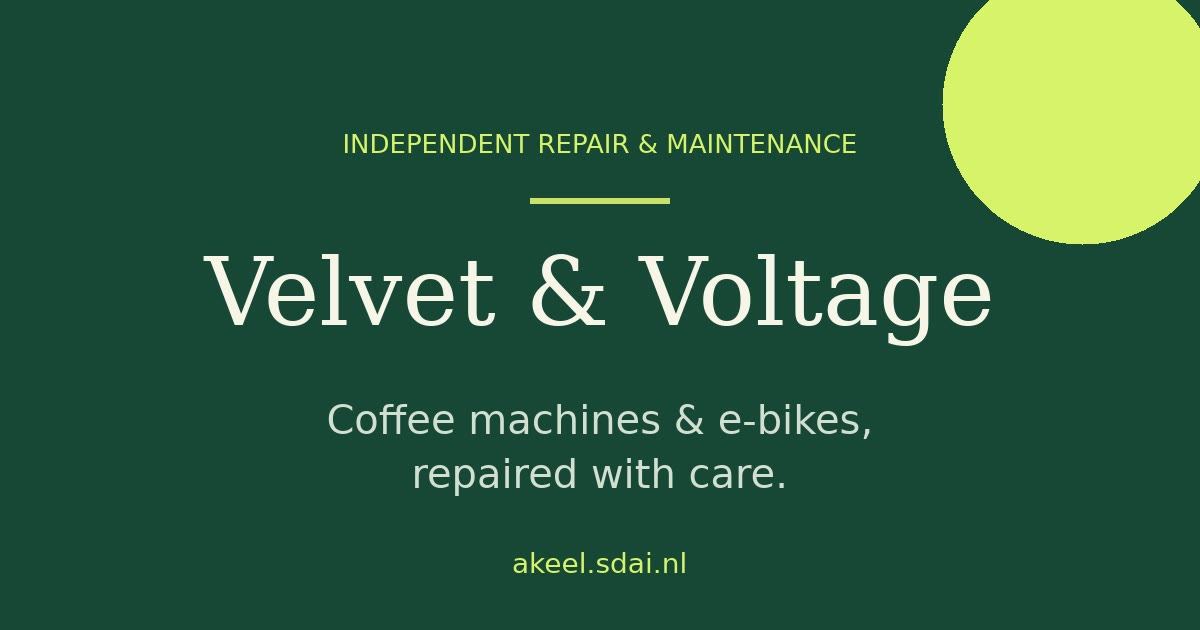
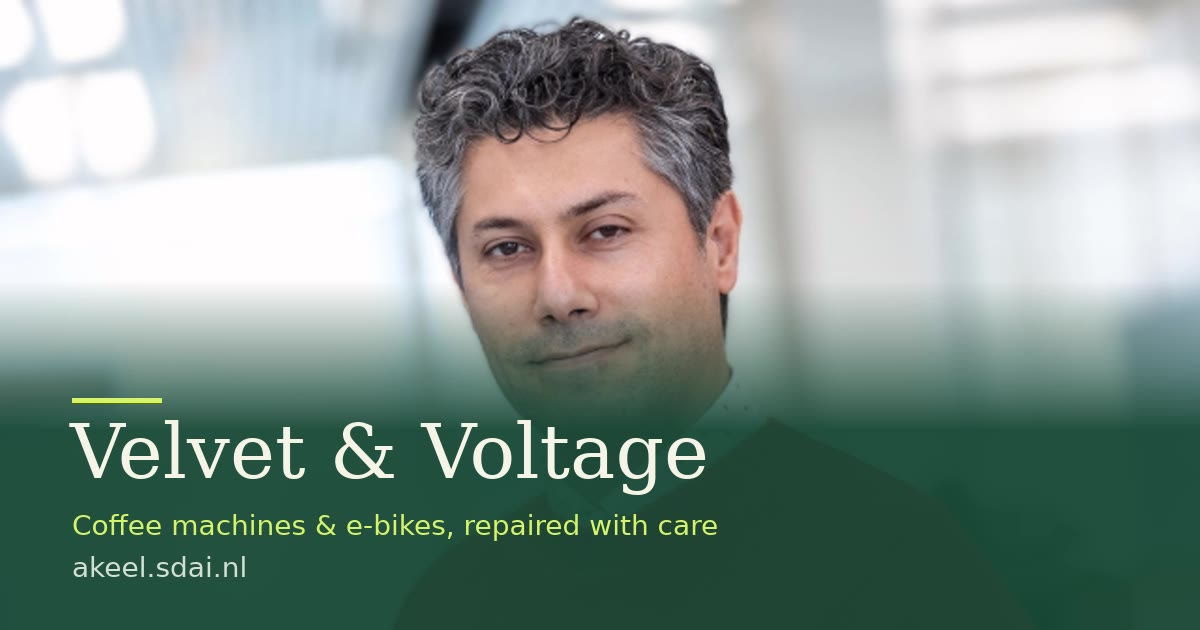
Echte foto van Akeel: og-image met woordmerk, portret in About + Person structured data

diff --git a/index.html b/index.html
@@ -11,7 +11,7 @@
   <title>Velvet &amp; Voltage — Repairs for things that keep you going</title>
   <link rel="stylesheet" href="/assets/css/style.css">
   <meta property="og:image" content="https://akeel.sdai.nl/assets/img/og-image.jpg">
-  <meta property="og:image:alt" content="Velvet &amp; Voltage — coffee machines and e-bikes, repaired with care">
+  <meta property="og:image:alt" content="Akeel of Velvet &amp; Voltage — coffee machine and e-bike repair">
   <meta property="og:image:type" content="image/jpeg">
   <meta property="og:image:width" content="1200">
   <meta property="og:image:height" content="630">
@@ -26,12 +26,11 @@
   <meta name="twitter:title" content="Velvet &amp; Voltage — Repairs for things that keep you going">
   <meta name="twitter:description" content="Friendly, reliable repair and maintenance for coffee machines and electric bikes. Book a repair with Velvet &amp; Voltage.">
   <meta name="twitter:image" content="https://akeel.sdai.nl/assets/img/og-image.jpg">
-  <meta name="twitter:image:alt" content="Velvet &amp; Voltage — coffee machines and e-bikes, repaired with care">
+  <meta name="twitter:image:alt" content="Akeel of Velvet &amp; Voltage — coffee machine and e-bike repair">
   <!-- Structured data for Google. Fill these in once you know them, then they count:
        "telephone", "email", "priceRange", "address" (or "areaServed" with your towns),
        "openingHoursSpecification", "geo" (latitude/longitude), "sameAs" (Instagram/Facebook URLs).
-       Swap assets/img/og-image.jpg for a real 1200x630 photo when you have one — same filename,
-       no other change needed. TODO in index.html. -->
+       TODO in index.html. -->
   <script type="application/ld+json">
   {
     "@context": "https://schema.org",
@@ -78,7 +77,16 @@
               }
             }
           ]
-        }
+        },
+        "founder": { "@id": "https://akeel.sdai.nl/#akeel" }
+      },
+      {
+        "@type": "Person",
+        "@id": "https://akeel.sdai.nl/#akeel",
+        "name": "Akeel",
+        "jobTitle": "Independent repairer",
+        "image": "https://akeel.sdai.nl/assets/img/portrait.jpg",
+        "worksFor": { "@id": "https://akeel.sdai.nl/#business" }
       },
       {
         "@type": "WebSite",
@@ -110,7 +118,7 @@
       </div>
     </section>
     <section class="wrap services" style="padding-top:0;padding-bottom:82px" aria-label="How repairs work"><div class="section-head"><div><div class="eyebrow" data-i="stepsEye">How it works</div><h2 data-i="stepsTitle">A simple route<br>back to working.</h2></div><p data-i="stepsCopy">A clear process from your first message to the finished repair.</p></div><div class="cards"><article class="card" style="min-height:190px"><div class="card-num">01</div><h3 data-i="step1Title">Tell me what’s wrong</h3><p data-i="step1Copy">Share the make, model and symptoms. A photo or short video can help.</p></article><article class="card" style="min-height:190px"><div class="card-num">02</div><h3 data-i="step2Title">Get a clear next step</h3><p data-i="step2Copy">I’ll ask any follow-up questions and explain how we can diagnose it.</p></article><article class="card" style="min-height:190px"><div class="card-num">03</div><h3 data-i="step3Title">Approve the repair</h3><p data-i="step3Copy">You’ll hear what needs doing and the expected cost before work goes ahead.</p></article></div></section>
-    <section class="about" id="about"><div class="wrap about-inner"><div><div class="eyebrow" data-i="aboutEye">A little about the workshop</div><h2 data-i="aboutTitle">Good repair is a kind of care.</h2></div><div class="about-copy"><p data-i="aboutCopy">I’m an independent repairer who believes everyday machines deserve thoughtful attention. Whether it’s a coffee machine that’s lost its pressure or an e-bike that needs a tune-up, you’ll get a clear explanation and a repair that makes sense.</p><p data-i="aboutCopy2">Tell me what’s going on, and we’ll work out the next step together.</p><div class="about-points"><span><b>✳</b> <span data-i="point1">Straightforward advice</span></span><span><b>✳</b> <span data-i="point2">No-fuss service</span></span><span><b>✳</b> <span data-i="point3">Built to keep going</span></span></div></div></div></section>
+    <section class="about" id="about"><div class="wrap about-inner"><div><div class="eyebrow" data-i="aboutEye">A little about the workshop</div><h2 data-i="aboutTitle">Good repair is a kind of care.</h2><figure class="about-photo"><img src="/assets/img/portrait.jpg" alt="Akeel, the repairer behind Velvet &amp; Voltage" width="640" height="426" loading="lazy" decoding="async"></figure></div><div class="about-copy"><p data-i="aboutCopy">I’m an independent repairer who believes everyday machines deserve thoughtful attention. Whether it’s a coffee machine that’s lost its pressure or an e-bike that needs a tune-up, you’ll get a clear explanation and a repair that makes sense.</p><p data-i="aboutCopy2">Tell me what’s going on, and we’ll work out the next step together.</p><div class="about-points"><span><b>✳</b> <span data-i="point1">Straightforward advice</span></span><span><b>✳</b> <span data-i="point2">No-fuss service</span></span><span><b>✳</b> <span data-i="point3">Built to keep going</span></span></div></div></div></section>
     <section class="wrap contact" id="contact"><div><div class="eyebrow" data-i="contactEye">Let’s get it sorted</div><h2 data-i="contactTitle">Something not working quite right?</h2><p class="contact-intro" data-i="contactCopy">Send a quick note with the make and model, what’s happening, and when it started. I’ll get back to you to discuss a repair.</p></div><div class="contact-box"><div class="contact-row"><span data-i="phone">Call or WhatsApp</span><strong>[Your phone number]</strong></div><div class="contact-row"><span data-i="email">Email</span><strong>[Your email address]</strong></div><div class="contact-row"><span data-i="area">Service area</span><strong>[Your town or region]</strong></div><a class="button" id="email-cta" href="mailto:hello@velvetandvoltage.example?subject=Repair%20enquiry"><span data-i="emailCta">Send a repair enquiry</span> <span aria-hidden="true">↗</span></a><p class="smallprint" data-i="placeholderNote">Replace the contact details and email link with your own before publishing.</p></div></section>
   </main>
   <script src="/assets/js/app.js" defer></script>

diff --git a/assets/css/style.css b/assets/css/style.css
@@ -5,7 +5,7 @@
 .hero-art{height:440px;position:relative;border-radius:8px;overflow:hidden;background:#e5e9db}.hero-art:before{content:'';position:absolute;inset:0;background:linear-gradient(145deg,#e8ecdf 0%,#dae3d4 50%,#c5d5c5 100%)}.art-sun{position:absolute;width:175px;height:175px;background:var(--lime);border-radius:50%;right:47px;top:32px;opacity:.85}.art-arch{position:absolute;inset:48px 42px 0 42px;border-radius:180px 180px 0 0;background:#f6f4ea;overflow:hidden}.art-arch:before{content:'';position:absolute;width:260px;height:260px;right:-39px;bottom:-70px;border-radius:50%;background:#c5d7c0}.art-arch:after{content:'';position:absolute;width:210px;height:130px;left:-47px;bottom:-20px;border-radius:50%;background:#e1e7d9}.art-bike{position:absolute;width:73%;height:auto;left:14%;bottom:31px;z-index:2;filter:drop-shadow(0 8px 3px #314d3825)}.coffee{position:absolute;z-index:3;width:94px;height:150px;right:55px;bottom:66px}.coffee .body{position:absolute;bottom:0;left:9px;width:76px;height:91px;background:#a85636;border-radius:10px 10px 16px 16px;border:5px solid #333c33}.coffee .top{position:absolute;left:0;top:11px;width:94px;height:37px;background:#39433a;border-radius:8px 8px 4px 4px}.coffee .top:before{content:'';position:absolute;left:21px;top:-12px;width:52px;height:13px;background:#39433a;border-radius:5px 5px 0 0}.coffee .cup{position:absolute;right:-5px;top:57px;width:19px;height:28px;background:#faf6e7;border:4px solid #39433a;border-radius:2px 2px 7px 7px}.art-tag{position:absolute;z-index:4;left:20px;bottom:18px;padding:10px 13px;border-radius:4px;background:#fffefaed;font-size:10px;font-weight:700;letter-spacing:.08em;text-transform:uppercase;box-shadow:0 4px 18px #253b2612}
 .trust{border-top:1px solid var(--line);border-bottom:1px solid var(--line);display:grid;grid-template-columns:repeat(3,1fr);padding:21px 0}.trust-item{display:flex;justify-content:center;gap:10px;align-items:center;color:#536056;font-size:12px}.trust-item+ .trust-item{border-left:1px solid var(--line)}.check{color:#4f7857;font-weight:900;font-size:16px}
 .services{padding:99px 0 104px}.section-head{display:flex;justify-content:space-between;align-items:end;margin-bottom:35px}.section-head h2,.about h2,.contact h2{font-family:var(--serif);font-weight:400;font-size:clamp(37px,4vw,52px);line-height:1.04;letter-spacing:-.045em;margin:14px 0 0}.section-head p{max-width:320px;color:var(--muted);font-size:13px;margin:0 0 3px}.cards{display:grid;grid-template-columns:1fr 1fr;gap:18px}.card{border:1px solid var(--line);border-radius:7px;padding:29px 29px 25px;background:var(--white);min-height:272px;display:flex;flex-direction:column}.card-top{display:flex;justify-content:space-between;align-items:start}.card-icon{height:52px;width:52px;border-radius:50%;display:grid;place-items:center;background:#edf1e5;color:#315b42}.card-icon svg{width:25px;height:25px}.card-num{font-size:11px;color:#899187;letter-spacing:.12em}.card h3{font-family:var(--serif);font-size:28px;font-weight:400;letter-spacing:-.03em;margin:23px 0 8px}.card p{font-size:13px;color:var(--muted);margin:0 0 20px;max-width:460px}.card a{font-size:12px;font-weight:700;text-decoration:none;margin-top:auto;color:var(--green);display:flex;align-items:center;gap:8px}.card a:hover{gap:13px}.card a span{transition:gap .2s}
-.about{background:var(--green);color:#f7f4e8;padding:78px 0}.about-inner{display:grid;grid-template-columns:.8fr 1.2fr;gap:90px;align-items:start}.about .eyebrow{color:var(--lime)}.about .eyebrow:before{background:var(--lime)}.about h2{max-width:330px}.about-copy{padding-top:5px;color:#d4dfd3;font-size:14px;max-width:530px}.about-copy p{margin:0 0 19px}.about-points{display:flex;gap:24px;margin-top:28px;color:#f6f3e7;font-size:11px;font-weight:650}.about-points span{display:flex;gap:8px;align-items:center}.about-points b{color:var(--lime);font-size:14px}
+.about{background:var(--green);color:#f7f4e8;padding:78px 0}.about-inner{display:grid;grid-template-columns:.8fr 1.2fr;gap:90px;align-items:start}.about .eyebrow{color:var(--lime)}.about .eyebrow:before{background:var(--lime)}.about h2{max-width:330px}.about-copy{padding-top:5px;color:#d4dfd3;font-size:14px;max-width:530px}.about-copy p{margin:0 0 19px}.about-points{display:flex;gap:24px;margin-top:28px;color:#f6f3e7;font-size:11px;font-weight:650}.about-points span{display:flex;gap:8px;align-items:center}.about-points b{color:var(--lime);font-size:14px}.about-photo{margin:26px 0 0}.about-photo img{width:100%;display:block;border-radius:7px;aspect-ratio:640/426;object-fit:cover}
 .contact{padding:96px 0 100px;display:grid;grid-template-columns:1fr 1fr;gap:70px}.contact h2{max-width:440px}.contact-intro{color:var(--muted);font-size:14px;max-width:400px;margin-top:18px}.contact-box{background:#e9ede3;border-radius:7px;padding:28px}.contact-row{display:flex;justify-content:space-between;gap:16px;padding:15px 0;border-bottom:1px solid #d4dbd0;font-size:13px}.contact-row span:first-child{color:var(--muted)}.contact-row:last-of-type{border-bottom:0;margin-bottom:18px}.contact-box .button{width:100%}.smallprint{font-size:10px;color:#7a8378;text-align:center;margin:11px 0 0}
 footer{border-top:1px solid var(--line);padding:22px 0 28px;font-size:11px;color:#727c72;display:flex;justify-content:space-between;gap:16px}.footer-brand{font-weight:750;color:var(--ink)}
 @media(max-width:760px){.wrap{width:min(100% - 36px,560px)}.nav{height:70px}.navlinks{gap:0}.navlinks>a:not(.nav-cta){display:none}.nav-cta{padding:11px 14px}.hero{grid-template-columns:1fr;gap:35px;padding:54px 0 45px}.hero-art{height:350px;grid-row:1}.art-arch{inset:38px 29px 0}.art-sun{width:130px;height:130px;right:32px;top:24px}.coffee{transform:scale(.82);transform-origin:bottom right;right:38px;bottom:51px}.hero h1{font-size:58px;margin-top:18px}.hero-copy{font-size:15px}.trust{grid-template-columns:1fr;padding:8px 0}.trust-item{justify-content:flex-start;padding:12px 4px}.trust-item+.trust-item{border-left:0;border-top:1px solid var(--line)}.services{padding:72px 0}.section-head{display:block}.section-head p{margin-top:16px}.cards{grid-template-columns:1fr}.card{min-height:250px;padding:24px}.about{padding:61px 0}.about-inner{grid-template-columns:1fr;gap:25px}.about h2{max-width:450px}.about-points{gap:14px;flex-wrap:wrap}.contact{padding:72px 0;grid-template-columns:1fr;gap:28px}.contact-box{padding:21px}footer{flex-direction:column;gap:7px}}

diff --git a/README.md b/README.md
@@ -125,9 +125,9 @@ Wat er al in zit:
 - **`meta robots`** met `max-image-preview:large`: je afbeelding mag groot in de resultaten.
 - **Social preview** (`og:` + `twitter:`): plak je link in WhatsApp, LinkedIn of Facebook en je
   ziet titel, omschrijving én afbeelding in plaats van een kale URL.
-- **Deelafbeelding** in je eigen kleuren: `assets/img/og-image.jpg` (1200×630, 49 kB) met het
-  woordmerk, je twee diensten en je webadres. Vervang hem gerust door je eigen foto — zie
-  hieronder.
+- **Deelafbeelding**: je eigen foto met je woordmerk erop — `assets/img/og-image.jpg` (1200×630).
+- **Echte foto in de "Over mij"-sectie** (`assets/img/portrait.jpg`), plus een `Person`-node in
+  de structured data die jou als oprichter (`founder`) aan het bedrijf koppelt.
 - **Structured data** (`application/ld+json`): LocalBusiness + je twee diensten + de website.
   Dit is de machineleesbare versie van je bedrijf; Google gebruikt het voor rich results.
 - **Snel en licht**: de hele pagina is ~25 kB en gebruikt geen externe libraries — precies wat
@@ -149,11 +149,10 @@ Let op: de gegevens op de pagina, in de structured data en op je Google-bedrijfs
 
 ### Je eigen foto als deelafbeelding
 
-De deellink gebruikt nu een kaart in je eigen kleuren. Wil je daar liever een echte foto — je
-werkplaats, of jij aan het werk met een portaal onder je arm? Vervang dan
-`assets/img/og-image.jpg` door je eigen foto, **met dezelfde bestandsnaam**. Aan de code hoef je
-niets te veranderen: de pagina, de social tags en de structured data wijzen allemaal naar dat
-ene bestand.
+De deellink gebruikt nu je eigen foto met je naam erop. Wil je later een andere foto — een andere
+pose, of je werkplaats? Vervang dan `assets/img/og-image.jpg` door die foto, **met dezelfde
+bestandsnaam**. Aan de code hoef je niets te veranderen: de pagina, de social tags en de
+structured data wijzen allemaal naar dat ene bestand.
 
 ```bash
 ffmpeg -i jouw-foto.jpg \
